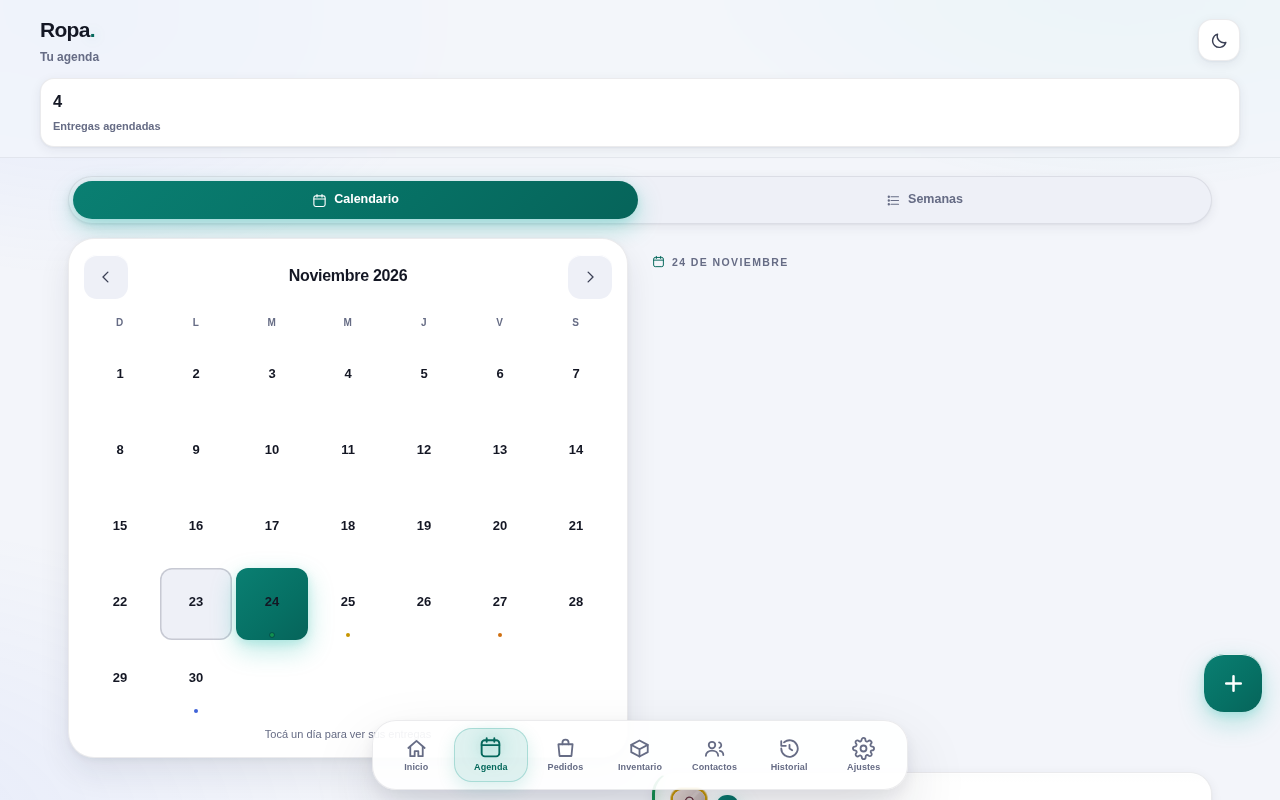
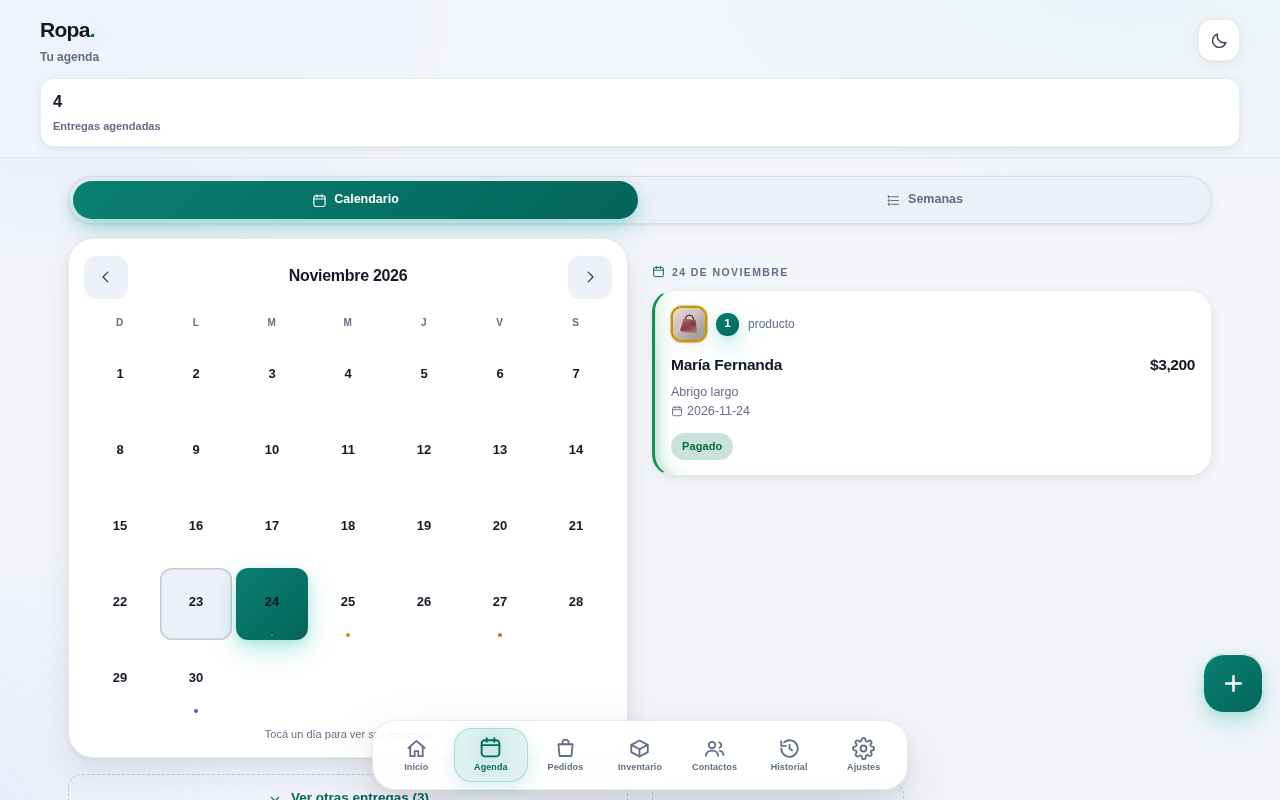
docs(capturas): agenda a 1280 con la transición de día ya fusionada (claro/oscuro y otras entregas)

diff --git a/INDICE-CAPTURAS.md b/INDICE-CAPTURAS.md
@@ -318,6 +318,6 @@ Los puntos de la franja ahora tienen color asignado (antes no tenían regla CSS 
 
 - Base: rama `feat/desktop-ancho` sobre master `6c8a9e6`. Demo local (`?demo=1`), sin datos reales. Tarea `apx:tasks/task_320f6be506434b37`.
 - **Antes** (1280 px, contenido en columna de 560 px centrada): [Inicio oscuro](capturas/2026-11-23/dino-antes-1280-oscuro-inicio.png) · [Pedidos oscuro](capturas/2026-11-23/dino-antes-1280-oscuro-pedidos.png) · [Inventario oscuro](capturas/2026-11-23/dino-antes-1280-oscuro-inventario.png) · [Contactos oscuro](capturas/2026-11-23/dino-antes-1280-oscuro-contactos.png) · [Agenda claro](capturas/2026-11-23/dino-antes-1280-claro-agenda.png) · [Historial claro](capturas/2026-11-23/dino-antes-1280-claro-historial.png).
-- **Después** (1280 px, ancho útil 1200 px): [Inicio oscuro](capturas/2026-11-23/dino-despues-1280-oscuro-inicio.png) · [Pedidos oscuro (2 columnas)](capturas/2026-11-23/dino-despues-1280-oscuro-pedidos.png) · [Inventario oscuro (5 por fila)](capturas/2026-11-23/dino-despues-1280-oscuro-inventario.png) · [Contactos claro (3 columnas)](capturas/2026-11-23/dino-despues-1280-claro-contactos.png) · [Agenda claro (calendario + entregas lado a lado)](capturas/2026-11-23/dino-despues-1280-claro-agenda.png) · [Historial oscuro (2 columnas)](capturas/2026-11-23/dino-despues-1280-oscuro-historial.png) · [Ajustes oscuro (2 columnas)](capturas/2026-11-23/dino-despues-1280-oscuro-ajustes.png).
+- **Después** (1280 px, ancho útil 1200 px): [Inicio oscuro](capturas/2026-11-23/dino-despues-1280-oscuro-inicio.png) · [Pedidos oscuro (2 columnas)](capturas/2026-11-23/dino-despues-1280-oscuro-pedidos.png) · [Inventario oscuro (5 por fila)](capturas/2026-11-23/dino-despues-1280-oscuro-inventario.png) · [Contactos claro (3 columnas)](capturas/2026-11-23/dino-despues-1280-claro-contactos.png) · [Agenda claro (calendario + entregas lado a lado)](capturas/2026-11-23/dino-despues-1280-claro-agenda.png) · [Agenda oscuro](capturas/2026-11-23/dino-despues-1280-oscuro-agenda.png) · [Agenda oscuro con «otras entregas» desplegadas](capturas/2026-11-23/dino-despues-1280-oscuro-agenda-otras-entregas.png) · [Historial oscuro (2 columnas)](capturas/2026-11-23/dino-despues-1280-oscuro-historial.png) · [Ajustes oscuro (2 columnas)](capturas/2026-11-23/dino-despues-1280-oscuro-ajustes.png).
 - **Celular sin cambios** (mismos anchos de siempre, sin scroll horizontal, sin errores de consola): [Pedidos 320 oscuro](capturas/2026-11-23/dino-despues-320-oscuro-pedidos.png) · [Inventario 320 claro](capturas/2026-11-23/dino-despues-320-claro-inventario.png) · [Inicio 390 claro](capturas/2026-11-23/dino-despues-390-claro-inicio.png) · [Inicio 390 oscuro](capturas/2026-11-23/dino-despues-390-oscuro-inicio.png) · [Pedidos 390 oscuro](capturas/2026-11-23/dino-despues-390-oscuro-pedidos.png) · [Contactos 390 oscuro](capturas/2026-11-23/dino-despues-390-oscuro-contactos.png) · [Agenda 390 claro](capturas/2026-11-23/dino-despues-390-claro-agenda.png).
 - Medición en vivo a 1280×800: `#main` pasa de 560 a 1200 px; inventario 3→5 columnas, pedidos 1→2, contactos 1→3, historial 1→2. La barra inferior auto-ocultable sigue igual (536 px, fija abajo). Pruebas: `npm test` verde y `npm run check` OK, con `tests/escritorio.test.mjs` cubriendo los breakpoints y que el celular no cambie.
